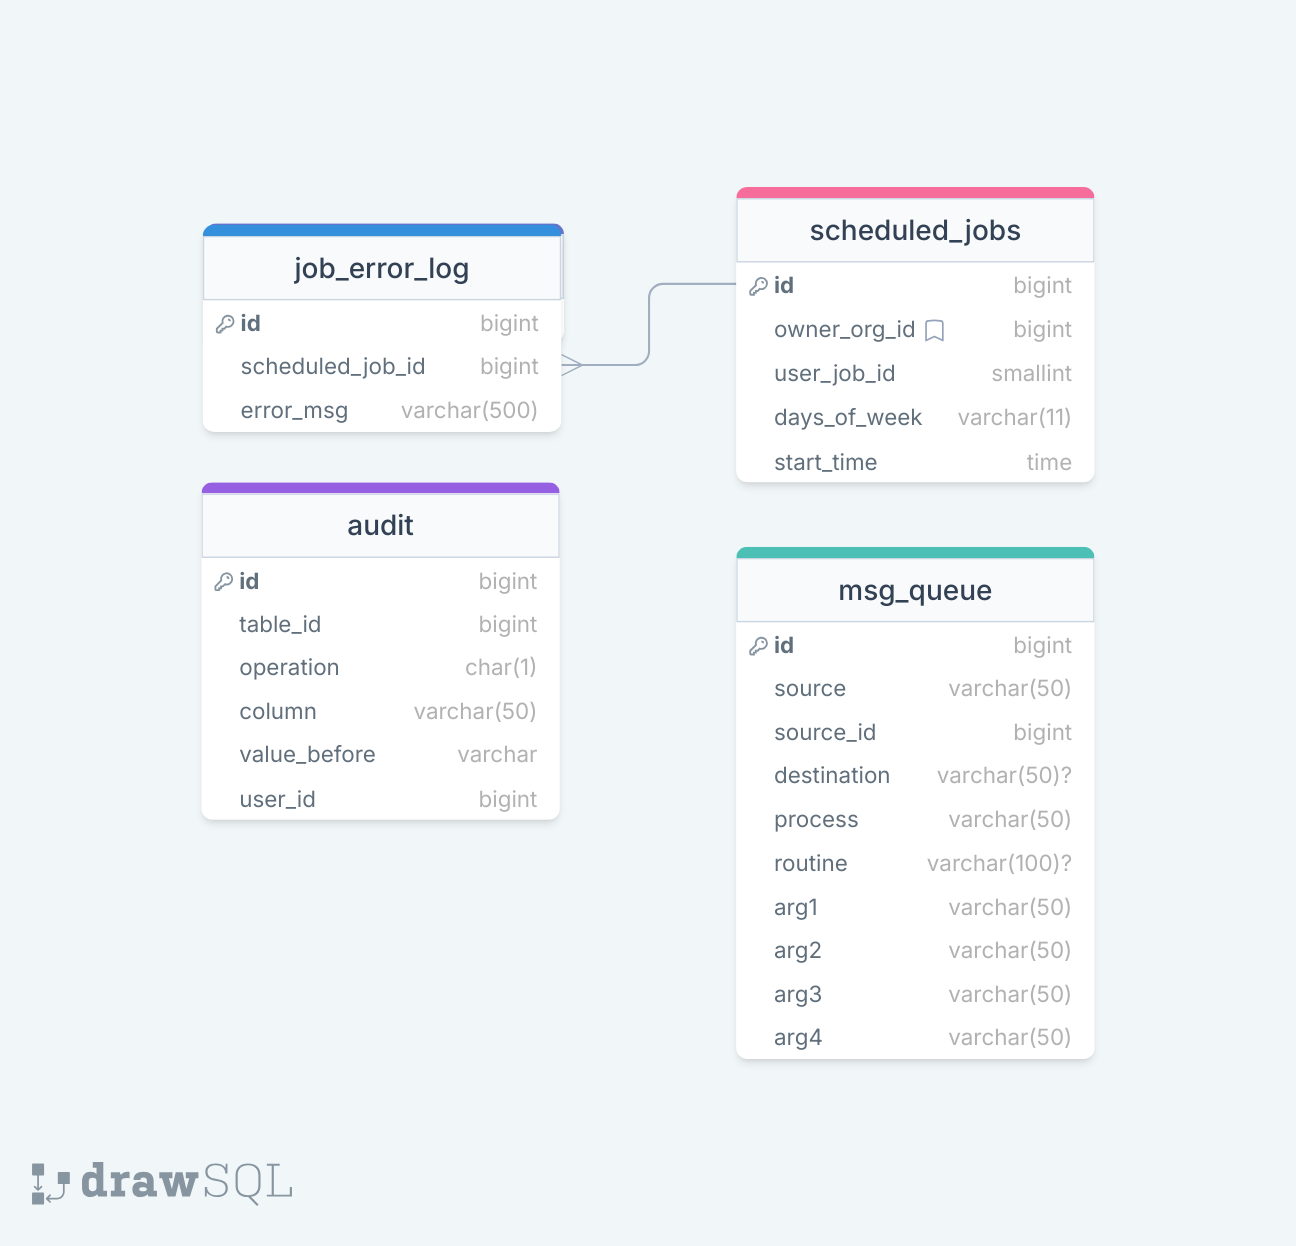
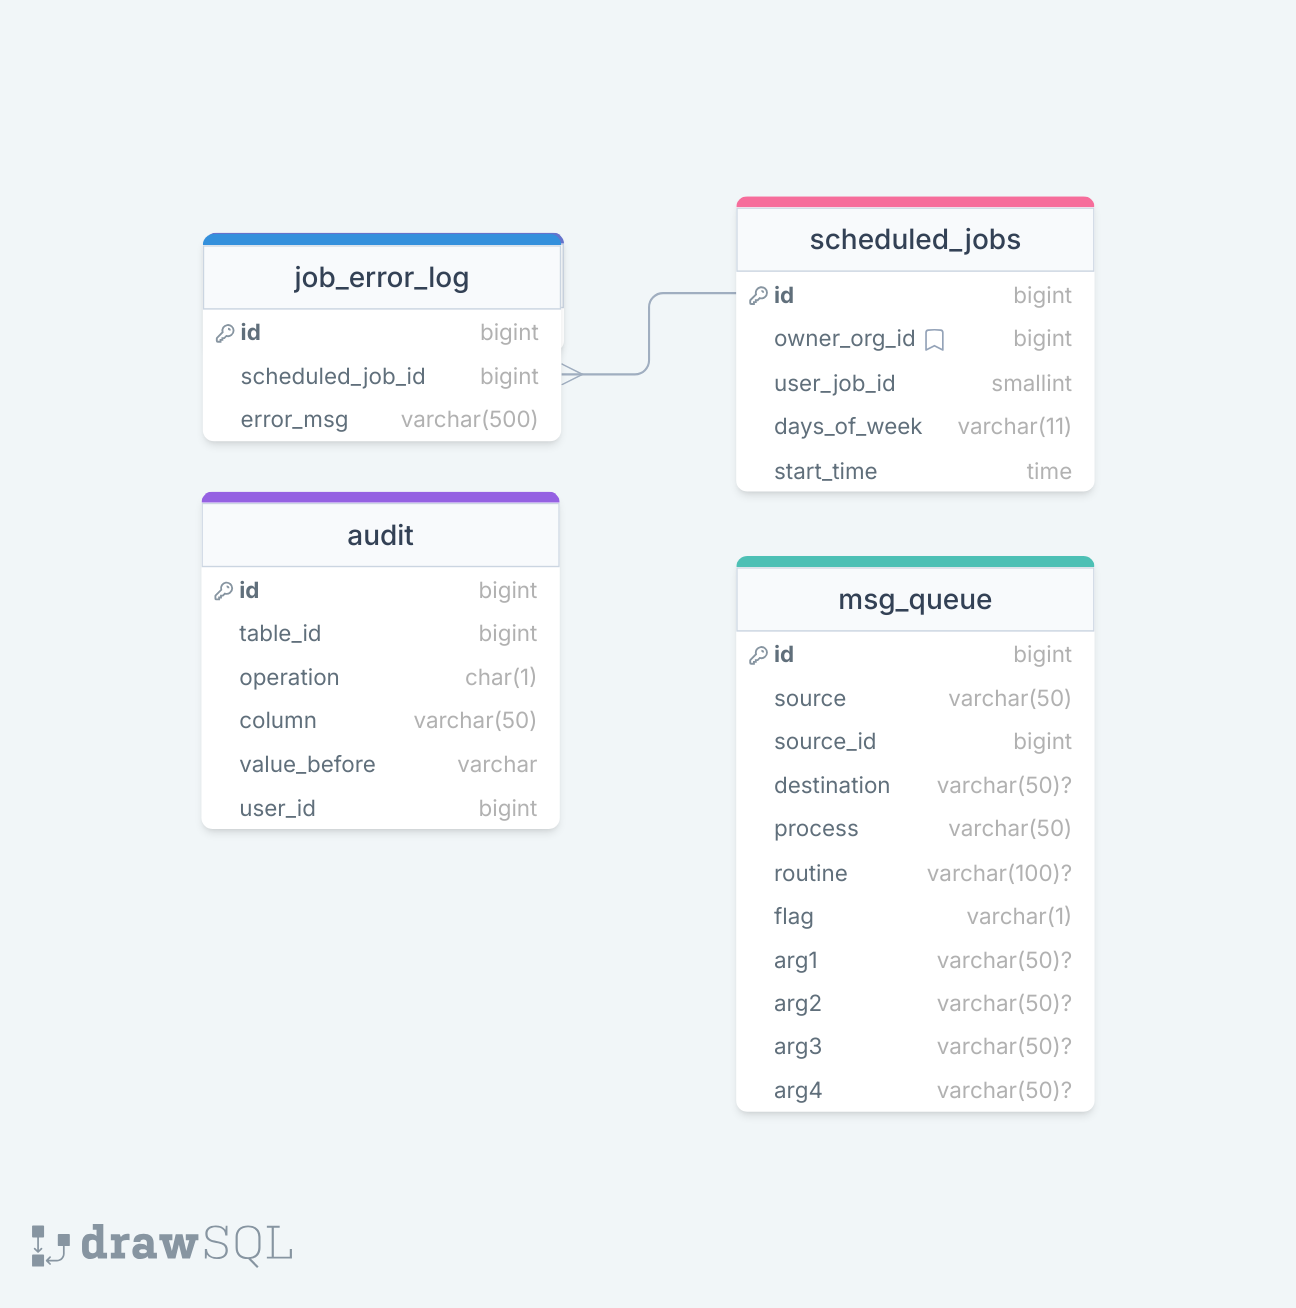
Add flow processing message to queue when a new trade is booked

diff --git a/apps/accounting/views.py b/apps/accounting/views.py
@@ -12,6 +12,7 @@ from .schemas import *
 from .utils import *
 from howtoquant.utils import dict_fetch_all, list_fetch_all, dict_fetch_one
 from apps.staticdata.utils_download import get_org_by_name_and_type, get_or_save_organization
+from apps.config.utils import add_to_msg_queue
 
 # Create your views here.
 
@@ -238,9 +239,13 @@ def trades(request, id=None):
         trade_data['consideration'] = trade_data['price'] * trade_data['quantity']
 
         try:
+            # save to accounting_trade table
             trade = save_trade(**{key: value for key, value in trade_data.items() if value is not None})
-
             result = model_to_dict(trade)
+
+            # add to config_msg_queue table to process into ladders later
+            msg = add_to_msg_queue('accounting_trade', result['id'], 'accounting_asset_flow', 'FLOW_BOOKER')
+
         except Exception as e:
             result = str(e)
             status = 'NOK'

diff --git a/apps/config/migrations/0001_initial.py b/apps/config/migrations/0001_initial.py
@@ -1,4 +1,4 @@
-# Generated by Django 4.2.5 on 2024-08-17 20:35
+# Generated by Django 4.2.5 on 2024-08-17 22:01
 
 from django.db import migrations, models
 import django.utils.timezone
@@ -27,6 +27,7 @@ class Migration(migrations.Migration):
                 ("destination", models.CharField(max_length=50)),
                 ("process", models.CharField(max_length=50)),
                 ("routine", models.CharField(blank=True, max_length=100, null=True)),
+                ("flag", models.CharField(max_length=1)),
                 ("arg1", models.CharField(blank=True, max_length=100, null=True)),
                 ("arg2", models.CharField(blank=True, max_length=100, null=True)),
                 ("arg3", models.CharField(blank=True, max_length=100, null=True)),

diff --git a/apps/config/utils.py b/apps/config/utils.py
@@ -1,0 +1,30 @@
+from .models import msg_queue
+
+def add_to_msg_queue(
+    source: str,
+    source_id: int,
+    destination: str,
+    process:str,
+    *kwargs
+):
+    new_msg = msg_queue.objects.create(
+        source = source,
+        source_id = source_id,
+        destination = destination,
+        process = process,
+        flag = 'N'
+    )
+
+    if 'routine' in kwargs:
+        new_msg.routine = kwargs['routine']
+    if 'arg1' in kwargs:
+        new_msg.arg1 = kwargs['arg1']
+    if 'arg2' in kwargs:
+        new_msg.arg2 = kwargs['arg2']
+    if 'arg3' in kwargs:
+        new_msg.arg3 = kwargs['arg3']
+    if 'arg4' in kwargs:
+        new_msg.arg4 = kwargs['arg4']
+
+    new_msg.save()
+    return new_msg

diff --git a/apps/config/models.py b/apps/config/models.py
@@ -7,6 +7,7 @@ class msg_queue(models.Model):
     destination = models.CharField(max_length=50)
     process = models.CharField(max_length=50)
     routine = models.CharField(max_length=100, blank=True, null=True)
+    flag = models.CharField(max_length=1)
     arg1 = models.CharField(max_length=100, blank=True, null=True)
     arg2 = models.CharField(max_length=100, blank=True, null=True)
     arg3 = models.CharField(max_length=100, blank=True, null=True)
